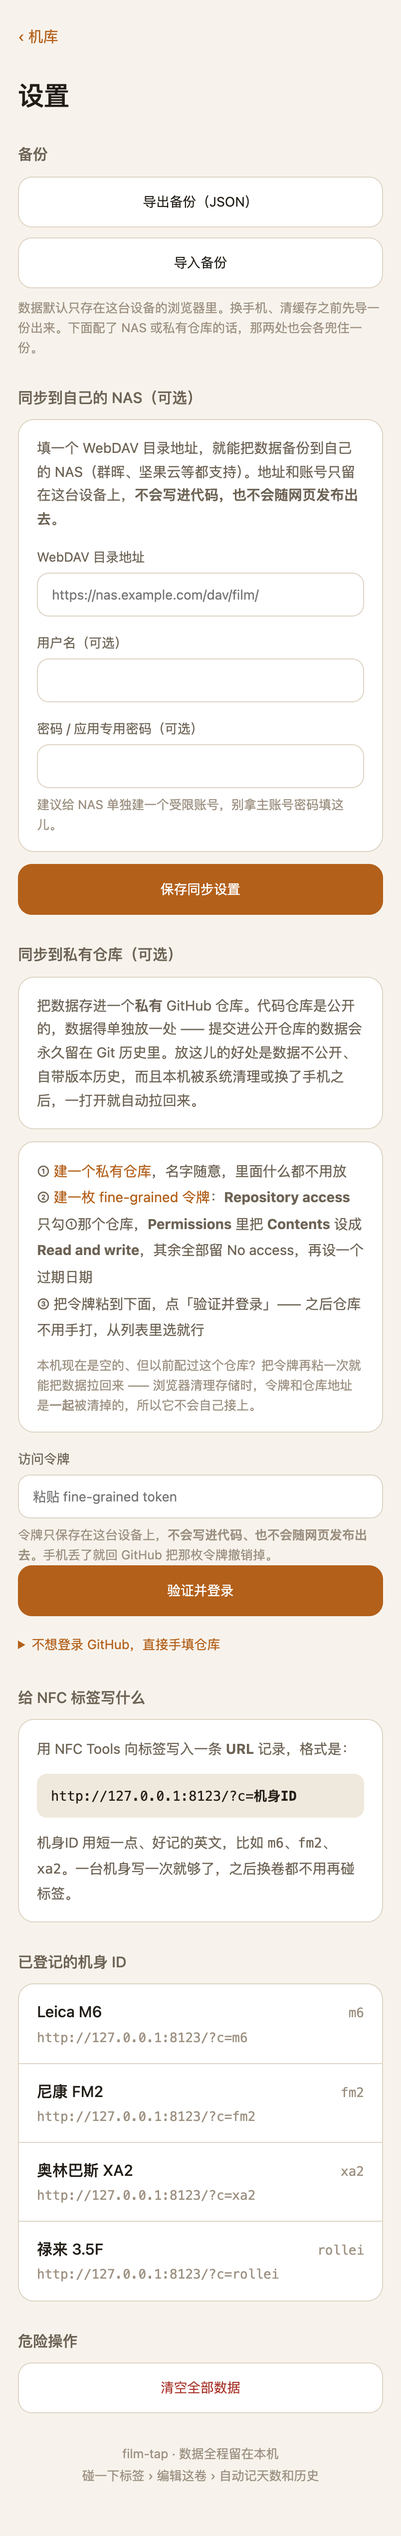
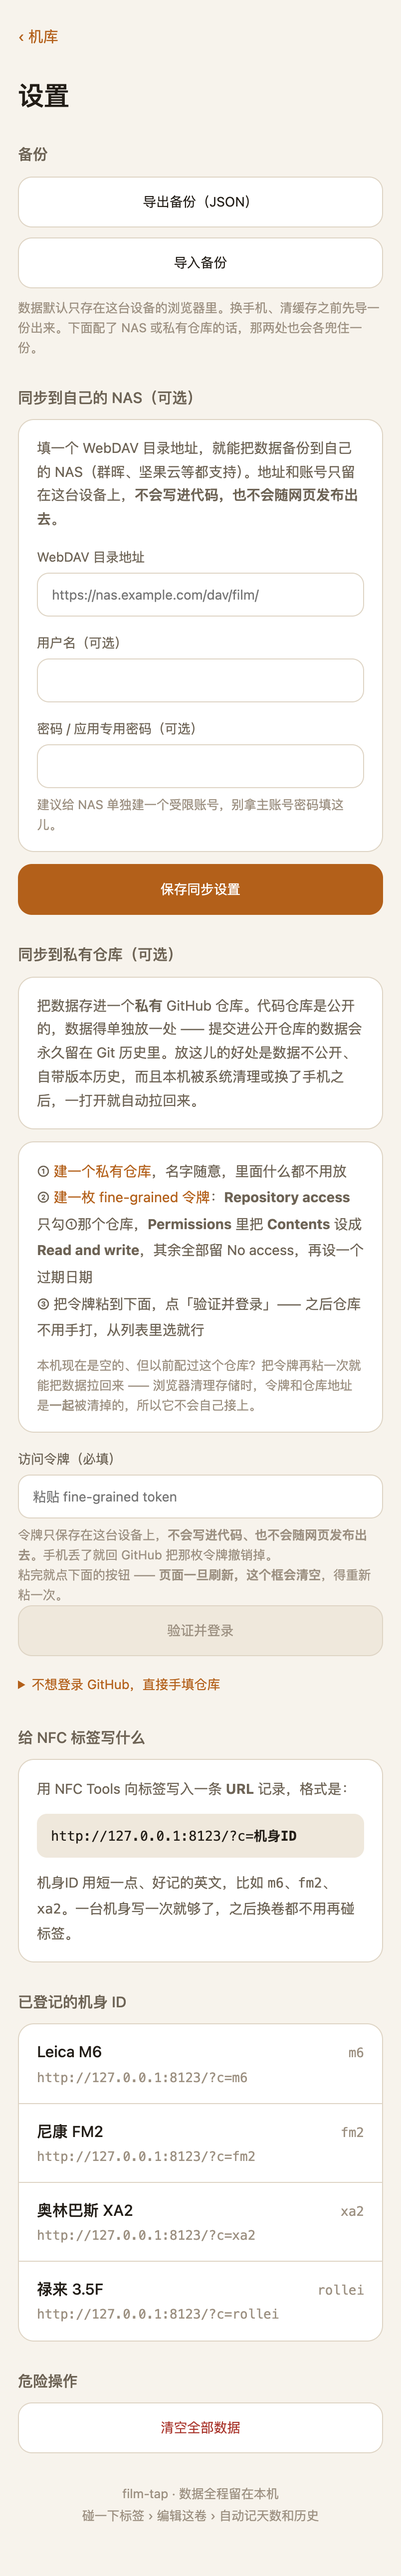
「验证并登录」空着就点不动：让「没粘上」看得见
用户实测报的：粘了令牌点验证并登录，只回一句「先粘一枚 fine-grained 令牌」。

复现结论 —— 代码路径没错：真实浏览器里只有一个 #gh-token，
填进去后 value 读到 41 字符，吐司变成「已登录 @probe」，也确实发了两个请求
（桌面和移动端一致）。所以问题是点的时候那个框真的是空的。

真正的缺陷是它**不告诉用户框是空的**：按钮一直亮着、空着也能点，
点完只丢一句「先粘令牌」，用户分不清是自己没粘上、还是这功能坏了。
（iOS 切去 GitHub 建令牌再切回来时 Safari 可能重载页面，框会静默清空，
而重载后的设置页长得一模一样 —— 这种清空完全看不出来。）

- 未登录时按钮初始 disabled，粘进东西才亮；纯空白不算内容
- 禁用样式换成灰底：实心主色降透明度之后仍然是最显眼的一块暖色，照样有人点
- 守卫改成指路（说清是哪个框）并把光标送进输入框
- 粘贴的令牌抹掉所有空白字符 —— 从 GitHub 复制常带换行，
  不抹的话用户拿到的是语焉不详的 401
- 令牌框补 autocapitalize/autocorrect/spellcheck，并明说「页面刷新会清空」

自检 47 项（新增「验证按钮跟着令牌亮灭」5 条断言，
为此给桩环境加了读元素的 __el）；
_firstrun.py 31 项也补上这条联动，并用拦截的 fetch 确认点了真的发请求。
sw.js CACHE → v15。

diff --git a/index.html b/index.html
@@ -101,6 +101,12 @@ h2{font-size:15px;font-weight:500;color:var(--ink-2);margin:28px 0 10px}
 .btn.danger{color:var(--danger);border-color:var(--line)}
 .row{display:flex;gap:10px}
 .row .btn{margin-bottom:10px}
+/* 禁用的按钮要一眼看出是「还不能点」。只把实心主色降透明度是不够的 ——
+   它依然是整页最显眼的一块暖色，用户照样会去点，然后觉得「点了没反应」。
+   所以直接把填充换成灰底，并且用属性选择器压过 .btn.primary（同优先级，
+   靠写在后面生效）。放在所有 .btn.* 变体**之后**，这个顺序不能挪。 */
+.btn:disabled{background:var(--surface-2);border-color:var(--line);color:var(--ink-3);cursor:default}
+.btn:disabled:active{opacity:1}
 
 /* 表单 */
 label{display:block;font-size:13px;color:var(--ink-2);margin:16px 0 6px}
@@ -1515,11 +1521,19 @@ function renderSettings(db){
        + '本机现在是空的、但以前配过这个仓库？把令牌再粘一次就能把数据拉回来 —— '
        + '浏览器清理存储时，令牌和仓库地址是<b>一起</b>被清掉的，所以它不会自己接上。</div>';
     h += '</div>';
-    h += '<label>访问令牌</label>'
-       + '<input id="gh-token" type="password" autocomplete="new-password" placeholder="粘贴 fine-grained token">';
+    h += '<label>访问令牌（必填）</label>'
+       + '<input id="gh-token" type="password" autocomplete="new-password" '
+       +   'autocapitalize="none" autocorrect="off" spellcheck="false" '
+       +   'oninput="syncGhVerifyBtn()" placeholder="粘贴 fine-grained token">';
     h += '<div class="hint">令牌只保存在这台设备上，<b>不会写进代码、也不会随网页发布出去</b>。'
-       + '手机丢了就回 GitHub 把那枚令牌撤销掉。</div>';
-    h += '<button class="btn primary" onclick="verifyGh()">验证并登录</button>';
+       + '手机丢了就回 GitHub 把那枚令牌撤销掉。<br>'
+       + '粘完就点下面的按钮 —— <b>页面一旦刷新，这个框会清空</b>，得重新粘一次。</div>';
+    /* 空着就点不动。这不是防呆，是**为了让「没粘上」看得见**：
+       粘成功按钮立刻变亮，没变亮就说明没粘进去。
+       以前它一直亮着，点了只回一句「先粘一枚令牌」，
+       用户根本分不清是自己没粘上、还是这个功能坏了。 */
+    h += '<button class="btn primary" id="gh-verify" disabled '
+       + 'onclick="verifyGh()">验证并登录</button>';
   } else {
     h += '<div class="card" style="padding:14px 16px;display:flex;align-items:center;gap:12px">';
     if (gh.avatar){
@@ -2004,10 +2018,21 @@ function onlyPrivate(list){
 }
 
 async function verifyGh(){
-  const typed = $("#gh-token").value.trim();
+  /* 从 GitHub 页面复制令牌时很容易带进换行或空格。令牌本身只可能是
+     [A-Za-z0-9_]，所以直接抹掉所有空白 —— 不抹的话用户拿到的是一个
+     语焉不详的 401，而真正的原因只是一个看不见的换行符。 */
+  const box   = $("#gh-token");
+  const typed = (box ? box.value : "").replace(/\s+/g, "");
   const old   = getGhRaw();
   const token = typed || ((old && old.token) || "");       // 留空 = 沿用已存的令牌
-  if (!token){ toast("先粘一枚 fine-grained 令牌"); return; }
+  if (!token){
+    /* 光说「先粘一枚令牌」等于没说：用户手里可能正捏着令牌，
+       只是没粘进去（或者页面刷新把它清空了）。所以把光标送进那个框里，
+       并把话说成「哪个框」。 */
+    if (box) box.focus();
+    toast("上面「访问令牌」那个框是空的 —— 先把令牌粘进去");
+    return;
+  }
 
   toast("验证中…");
   const u = await ghUser(token);
@@ -2026,6 +2051,20 @@ async function verifyGh(){
   const r = await ghListRepos(token);
   if (!r.error) ghRepos = onlyPrivate(r.repos);
   render(true);
+}
+
+/* 「验证并登录」按钮跟着令牌框的内容亮灭。
+   ⚠ 只在**未登录**状态下挂这个钩子（渲染时才给按钮 id 和 disabled）。
+   登录之后那个按钮是「用这枚令牌重新验证」，令牌留空表示沿用已存的 ——
+   那时候空着是合法的，绝不能把按钮锁死。 */
+function syncGhVerifyBtn(){
+  const btn = $("#gh-verify");
+  if (!btn) return;
+  const box = $("#gh-token");
+  const has = ((box ? box.value : "")).replace(/\s+/g, "").length > 0;
+  /* 只改 disabled，外观交给 CSS 的 .btn:disabled ——
+     样式和状态各留一处，免得以后调颜色要改两个地方。 */
+  btn.disabled = !has;
 }
 
 async function listGhRepos(){

diff --git a/_selftest.js b/_selftest.js
@@ -255,6 +255,41 @@ try {
         "留空=" + a + " 填0=" + b + " 填24=" + c);
 } catch (e) { check("总张数留空回落到画幅默认", false, "抛异常 " + e.message); }
 
+/* ══════════════════════════════════════════════════════════
+   「验证并登录」按钮必须跟着令牌框亮灭。
+   修的是这个真实故障（用户实测报的）：按钮一直亮着、空着也能点，
+   点完只回一句「先粘一枚令牌」—— 用户分不清是自己没粘上、
+   还是这个功能坏了。在真实浏览器里复现过：框里有东西时代码路径是对的
+   （唯一一个 #gh-token、value 读得到、吐司变成「已登录 @probe」），
+   错的是它**不告诉用户框是空的**。
+   ══════════════════════════════════════════════════════════ */
+try {
+  localStorage.removeItem("filmtap.github");
+  __setLoc("", "#/settings"); render();
+  const html  = __app();
+  const start = html.indexOf('id="gh-verify" disabled') >= 0;
+  const wired = html.indexOf('oninput="syncGhVerifyBtn()"') >= 0;
+
+  __setValue("#gh-token", "");
+  syncGhVerifyBtn();
+  const emptyStaysOff = __el("#gh-verify").disabled === true;
+
+  __setValue("#gh-token", "github_" + "pat_" + "A".repeat(20));
+  syncGhVerifyBtn();
+  const filledLightsUp = __el("#gh-verify").disabled === false;
+
+  /* 粘贴时爱带上换行 / 空格。光看「非空」就点亮的话，一个空格也能把按钮点亮，
+     然后用户拿到一个语焉不详的 401 —— 空白不算内容。 */
+  __setValue("#gh-token", "   \n  ");
+  syncGhVerifyBtn();
+  const blankStaysOff = __el("#gh-verify").disabled === true;
+
+  check("验证按钮跟着令牌亮灭",
+        start && wired && emptyStaysOff && filledLightsUp && blankStaysOff,
+        "初始禁用=" + start + " 挂上 oninput=" + wired + " 空着不亮=" + emptyStaysOff +
+        " 粘了就亮=" + filledLightsUp + " 纯空白不算=" + blankStaysOff);
+} catch (e) { check("验证按钮跟着令牌亮灭", false, "抛异常 " + e.message); }
+
 /* ── 同步设置：只落本机、不进源码 ── */
 try {
   __setLoc("", "#/settings"); render();
@@ -547,7 +582,7 @@ try {
     "exportJSON","importJSON",
     "saveDavFromForm","syncToNas","restoreFromNas","clearDavSettings","saveGhFromForm",
     "ghPush","ghPull","toggleGhAuto","clearGhSettings","wipe","exportCorrupt",
-    "verifyGh","listGhRepos","useGhRepo",
+    "verifyGh","listGhRepos","useGhRepo","syncGhVerifyBtn",
     "dropCorrupt","deleteFilm","saveFilm","updatePP","document"];
 
   /* 属性在交给 JS 之前，浏览器会先把 HTML 实体还原成字符 */
@@ -1132,6 +1167,10 @@ try {
 global.__setLoc = (search, hash) => { loc.search = search; loc.hash = hash; };
 global.__app = () => el("#app").innerHTML;
 global.__setValue = (sel, v) => { el(sel).value = v; };
+/* 读回桩元素的属性（disabled / style 之类）。只给 value 一个 setter 是不够的：
+   「按钮该不该亮」这件事落在 disabled 上，光看 innerHTML 里的字符串
+   证明不了按下之后它真的变了。 */
+global.__el = sel => el(sel);
 global.__report = (rows, pass, fail) => {
   console.log("检查项".padEnd(20) + "结果".padEnd(10) + "备注");
   console.log("-".repeat(88));

diff --git a/sw.js b/sw.js
@@ -8,11 +8,11 @@
    SHELL 里那些文件的内容指纹，`_selftest.js` 会算一遍比对。
    对不上就自检失败，逼你改这一行；改了这一行 sw.js 的字节就变了，
    浏览器才会去装新 SW。版本号和指纹两个都要动。 */
-const CACHE = "filmtap-v13";
+const CACHE = "filmtap-v15";
 const SHELL = ["./", "./index.html", "./manifest.webmanifest"];
 /* SHA-256(index.html + "\n" + manifest.webmanifest)，按换行归一化后算。
    算错不要紧：跑 `node _selftest.js` 会把正确的值打出来，照抄即可。 */
[2 lines of base64/hex data omitted]
 
 self.addEventListener("install", e => {
   e.waitUntil(

diff --git a/_firstrun.py b/_firstrun.py
@@ -100,8 +100,13 @@ with sync_playwright() as p:
     page.wait_for_timeout(700)
     h = app(page)
     check("刷新后数据还在", "Kodak Portra 400" in h and "我的第一台" in h)
-    check("刷新后 SW 已接管",
-          page.evaluate("!!navigator.serviceWorker.controller") is True)
+    # app 只在 https 下注册 SW（`location.protocol === "https:"` 那道判断），
+    # 所以拿 http 本地服务跑的时候这条天然不成立 —— 跳过，不算失败。
+    if BASE.startswith("https:"):
+        check("刷新后 SW 已接管",
+              page.evaluate("!!navigator.serviceWorker.controller") is True)
+    else:
+        print("%-34s %s" % ("刷新后 SW 已接管", "跳过（http 本地跑，SW 只在 https 注册）"))
 
     # ── ⑤ 统计页：一台上不了卷的机身 ──
     page.evaluate("location.hash = '#/stats'")
@@ -118,6 +123,47 @@ with sync_playwright() as p:
     check("设置页三步向导在", all(s in h for s in
           ["验证并登录", "建一个私有仓库", "建一枚 fine-grained 令牌"]),
           "文案齐" if "建一个私有仓库" in h else "缺文案")
+
+    # ── ⑥b 令牌框 / 验证按钮的联动 ──
+    # 这是用户在真实手机上踩到的坑：按钮一直亮着、空着也能点，
+    # 点完只回一句「先粘一枚令牌」—— 分不清是自己没粘上还是功能坏了。
+    # 现在空着必须是禁用的，粘进去才亮。
+    dis = lambda: page.evaluate("!!document.querySelector('#gh-verify').disabled")
+    check("未粘令牌时验证按钮禁用", dis() is True)
+    check("令牌框挂上了 oninput", 'oninput="syncGhVerifyBtn()"' in h)
+
+    page.fill("#gh-token", "probe" + "-token-0123456789")
+    page.wait_for_timeout(250)
+    check("粘了令牌按钮就亮", dis() is False)
+
+    page.fill("#gh-token", "   ")
+    page.wait_for_timeout(250)
+    check("只填空格不算粘了", dis() is True)
+
+    # 守卫的文案要指路（说「哪个框」），而不是只丢一句「先粘令牌」
+    page.evaluate("() => { document.querySelector('#gh-token').value = ''; }")
+    page.evaluate("() => verifyGh()")
+    page.wait_for_timeout(250)
+    guard = page.evaluate("document.querySelector('#toast').textContent")
+    check("空令牌的提示会指路", "访问令牌" in guard, repr(guard))
+
+    # 真的粘上之后，点下去必须走到发请求那一步
+    page.fill("#gh-token", "probe" + "-token-0123456789")
+    page.wait_for_timeout(200)
+    page.evaluate("""() => {
+        window.__hits = [];
+        window.fetch = (u, o) => { window.__hits.push(String(u));
+            return Promise.resolve({ ok:true, status:200,
+                json: async () => ({ login:'probe', name:'Probe' }) }); };
+    }""")
+    page.click("#gh-verify")
+    page.wait_for_timeout(600)
+    hits = " ".join(page.evaluate("window.__hits"))
+    check("粘了之后点得动且真的发请求",
+          "api.github.com/user" in hits, hits[:60] or "一个请求都没发")
+    check("验证成功后头部显示账号", "@probe" in app(page))
+    # 把这次登录态清掉，免得影响后面几步
+    page.evaluate("() => { try { localStorage.removeItem('filmtap.github') } catch(e){} }")
 
     # ── ⑦ 库里有东西时，?demo=1 必须拒绝覆盖 ──
     # bootDemo 里有 `if (!Object.keys(load().cameras).length)` 这道判断，
